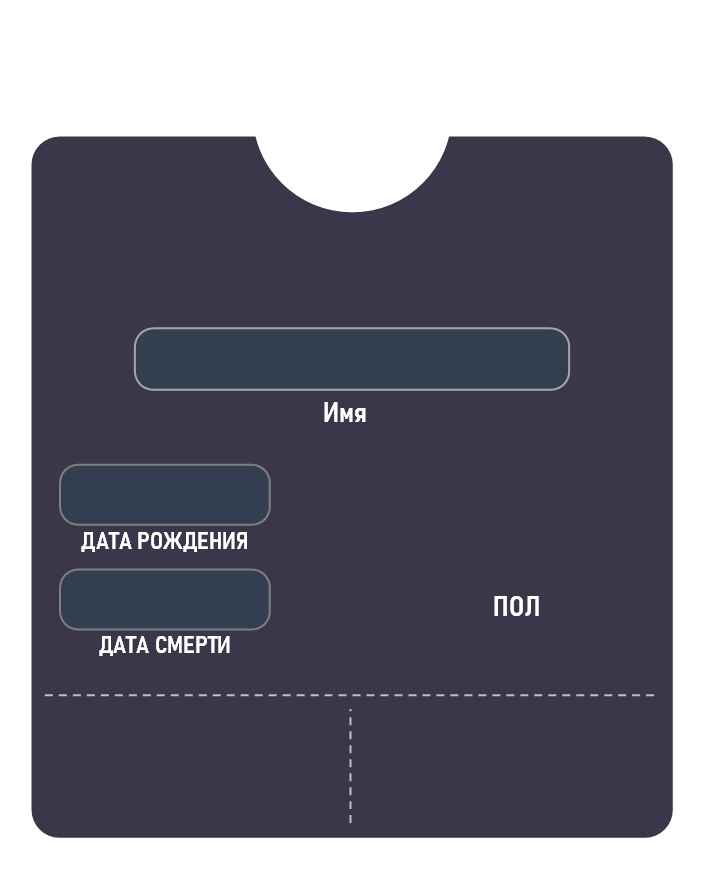
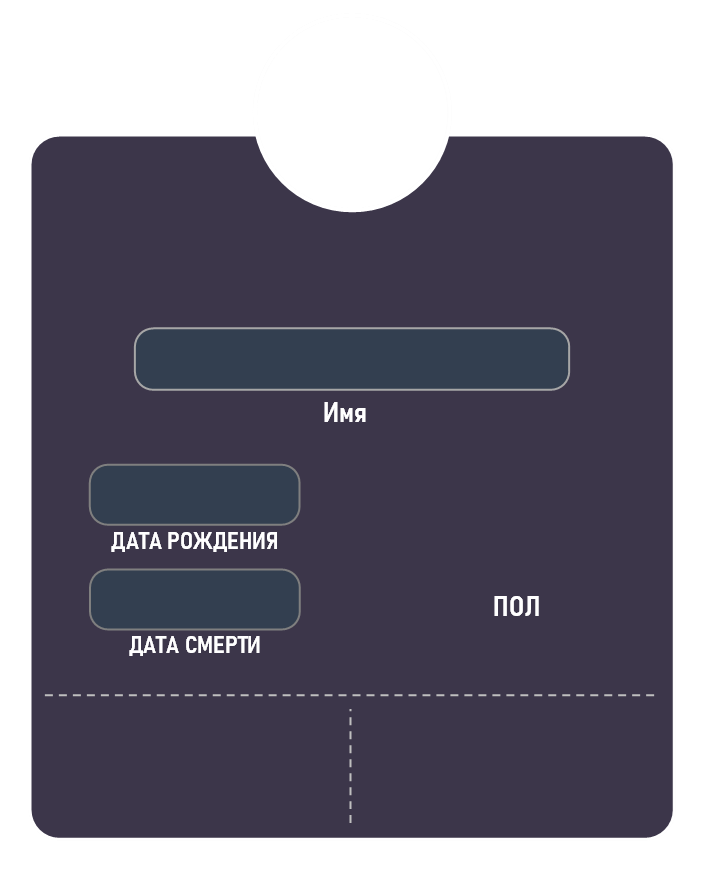
123

Changed region(s): [[0.0936, 0.5276, 0.4369, 0.7759], [0.3745, 0.5276, 0.4369, 0.5897], [0.0624, 0.6828, 0.0936, 0.7138]]

diff --git a/index.js b/index.js
@@ -2560,7 +2560,8 @@ add_dlg={
 		const name=await keyboard.read(20)
 		if(!name) return
 		if (name.replaceAll(' ','').length>1){
-			objects.add_dlg_name_t.text=name
+			
+			objects.add_dlg_name_t.set2(name,250)
 			this.updated.name=1
 		}else{
 			
@@ -2572,7 +2573,10 @@ add_dlg={
 
 	async edit_bd_down(){
 
-		const date_s=await dp.show()
+		const pdata=familyData[this.id]
+		const bd=pdata.bd
+
+		const date_s=await dp.show(bd)
 		if(!date_s) return
 		need_render=1
 		objects.add_dlg_bd_t.text=date_s
@@ -2582,7 +2586,10 @@ add_dlg={
 
 	async edit_dd_down(){
 
-		const date_s=await dp.show()
+		const pdata=familyData[this.id]
+		const dd=pdata.dd
+
+		const date_s=await dp.show(dd)
 		if(!date_s) return
 		need_render=1
 		objects.add_dlg_dd_t.text=date_s
@@ -2907,10 +2914,16 @@ dp={
 	days_in_month:30,
 	resolver:0,
 
-	show(){
+	show(date){
 		
 		objects.dp_cont.visible=true
-		this.set_date(1,1,2000)
+		
+		if(date){
+			const [day, month, year] = date.split('.');
+			this.set_date(+day,+month,+year)
+		}
+		else
+			this.set_date(1,1,2000)
 		need_render=1
 		return new Promise(res=>{
 			this.resolver=res
@@ -3008,7 +3021,7 @@ dp={
 	switch_year(d){
 		
 		const y=this.cur_year+d
-		if (y<1800||y>1999){
+		if (y<1800||y>2999){
 			sys_msg.add('Данный год недоступен')
 			return
 		}